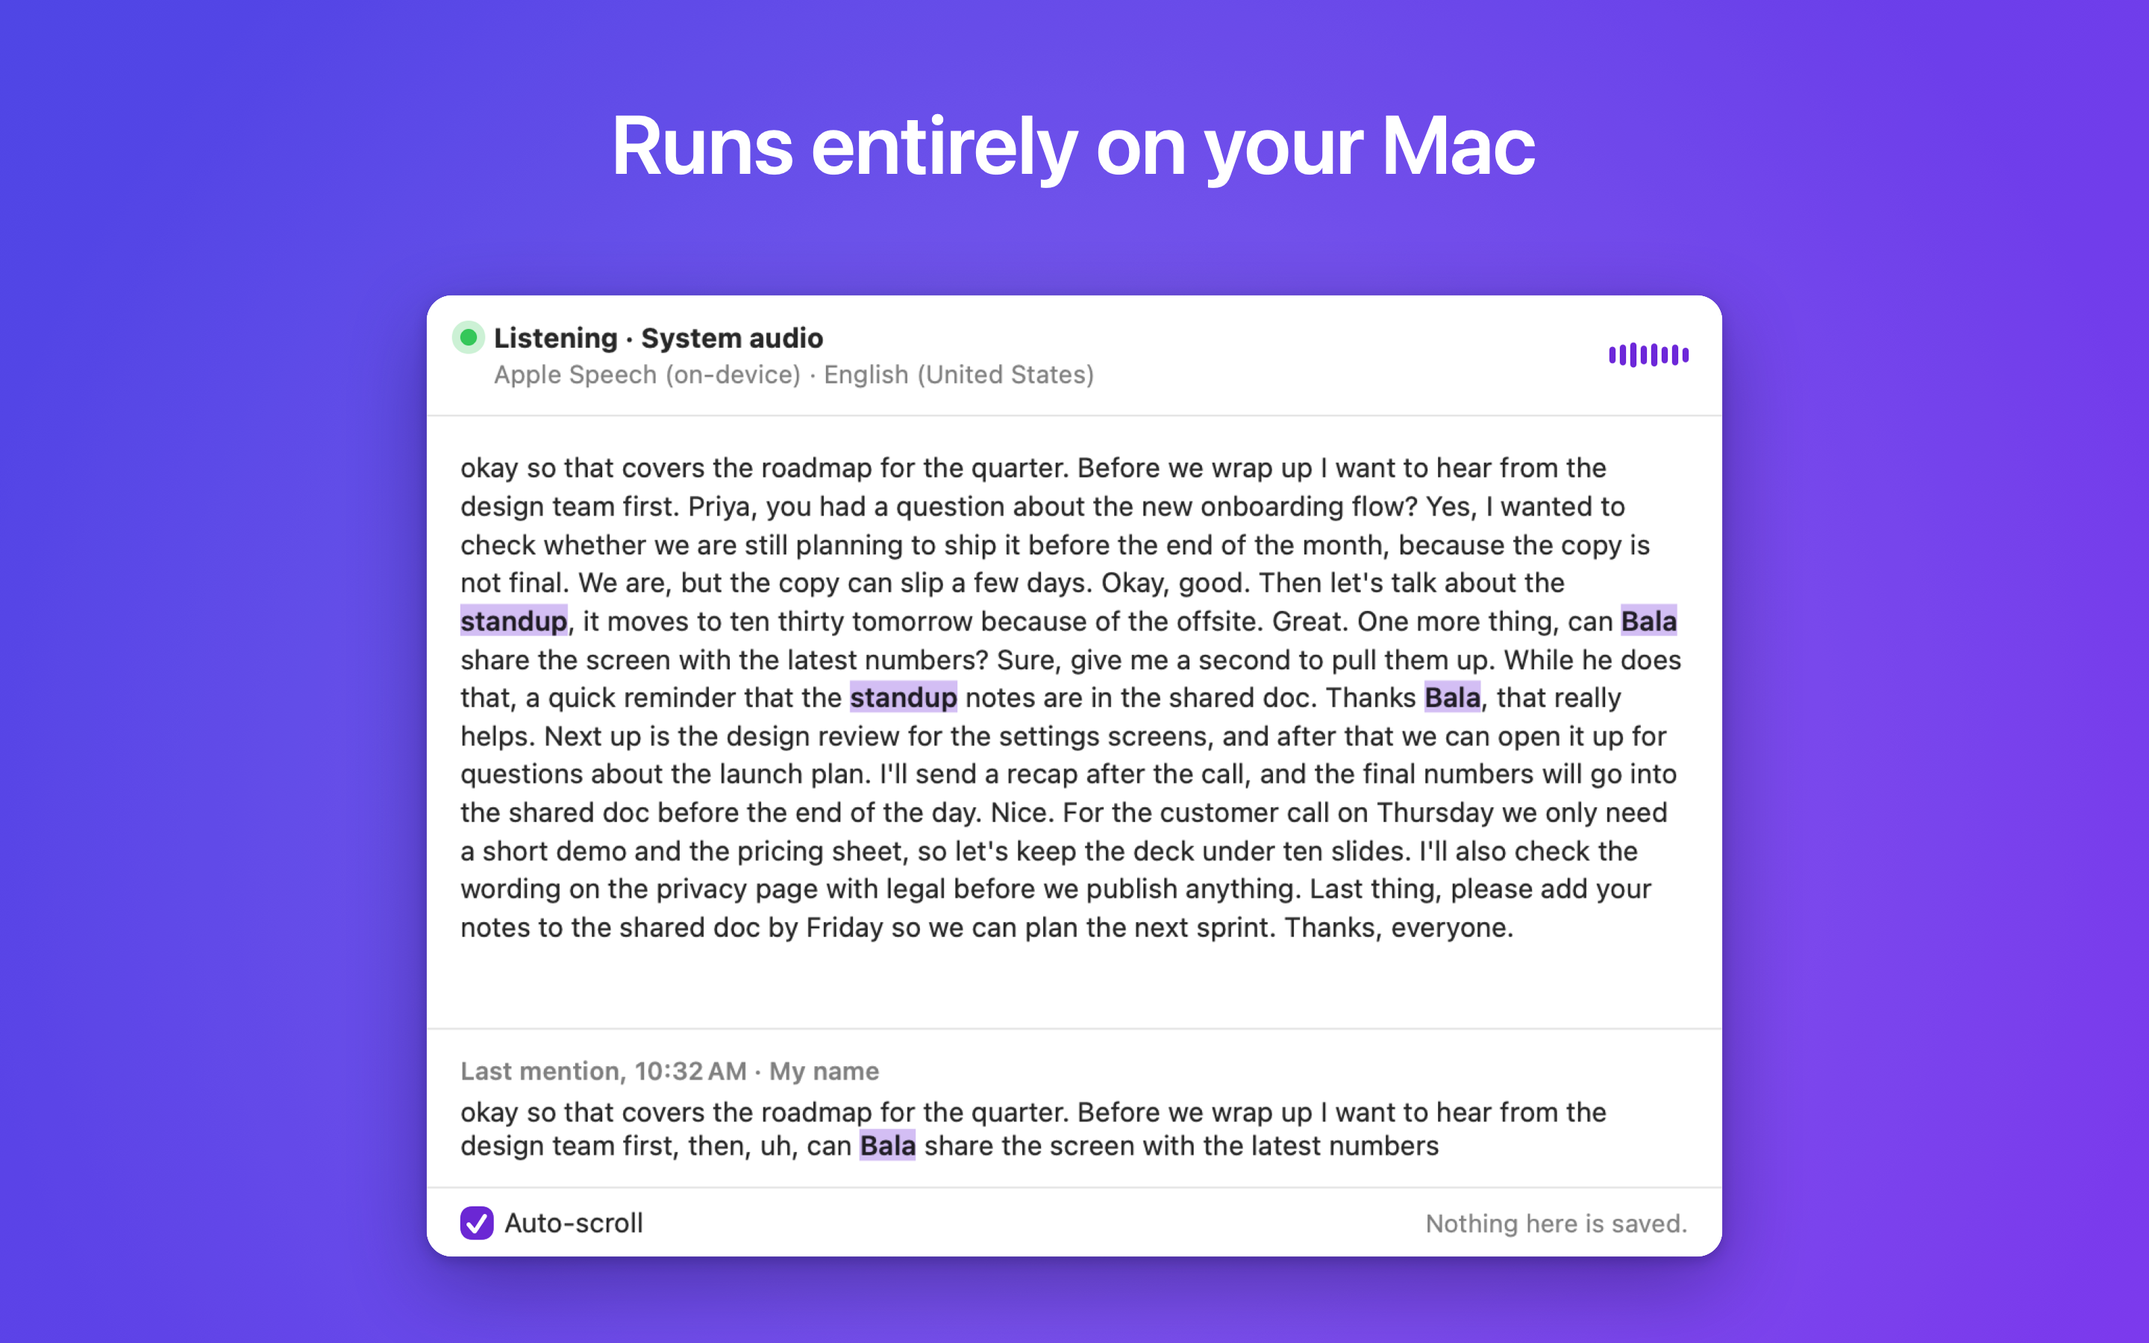
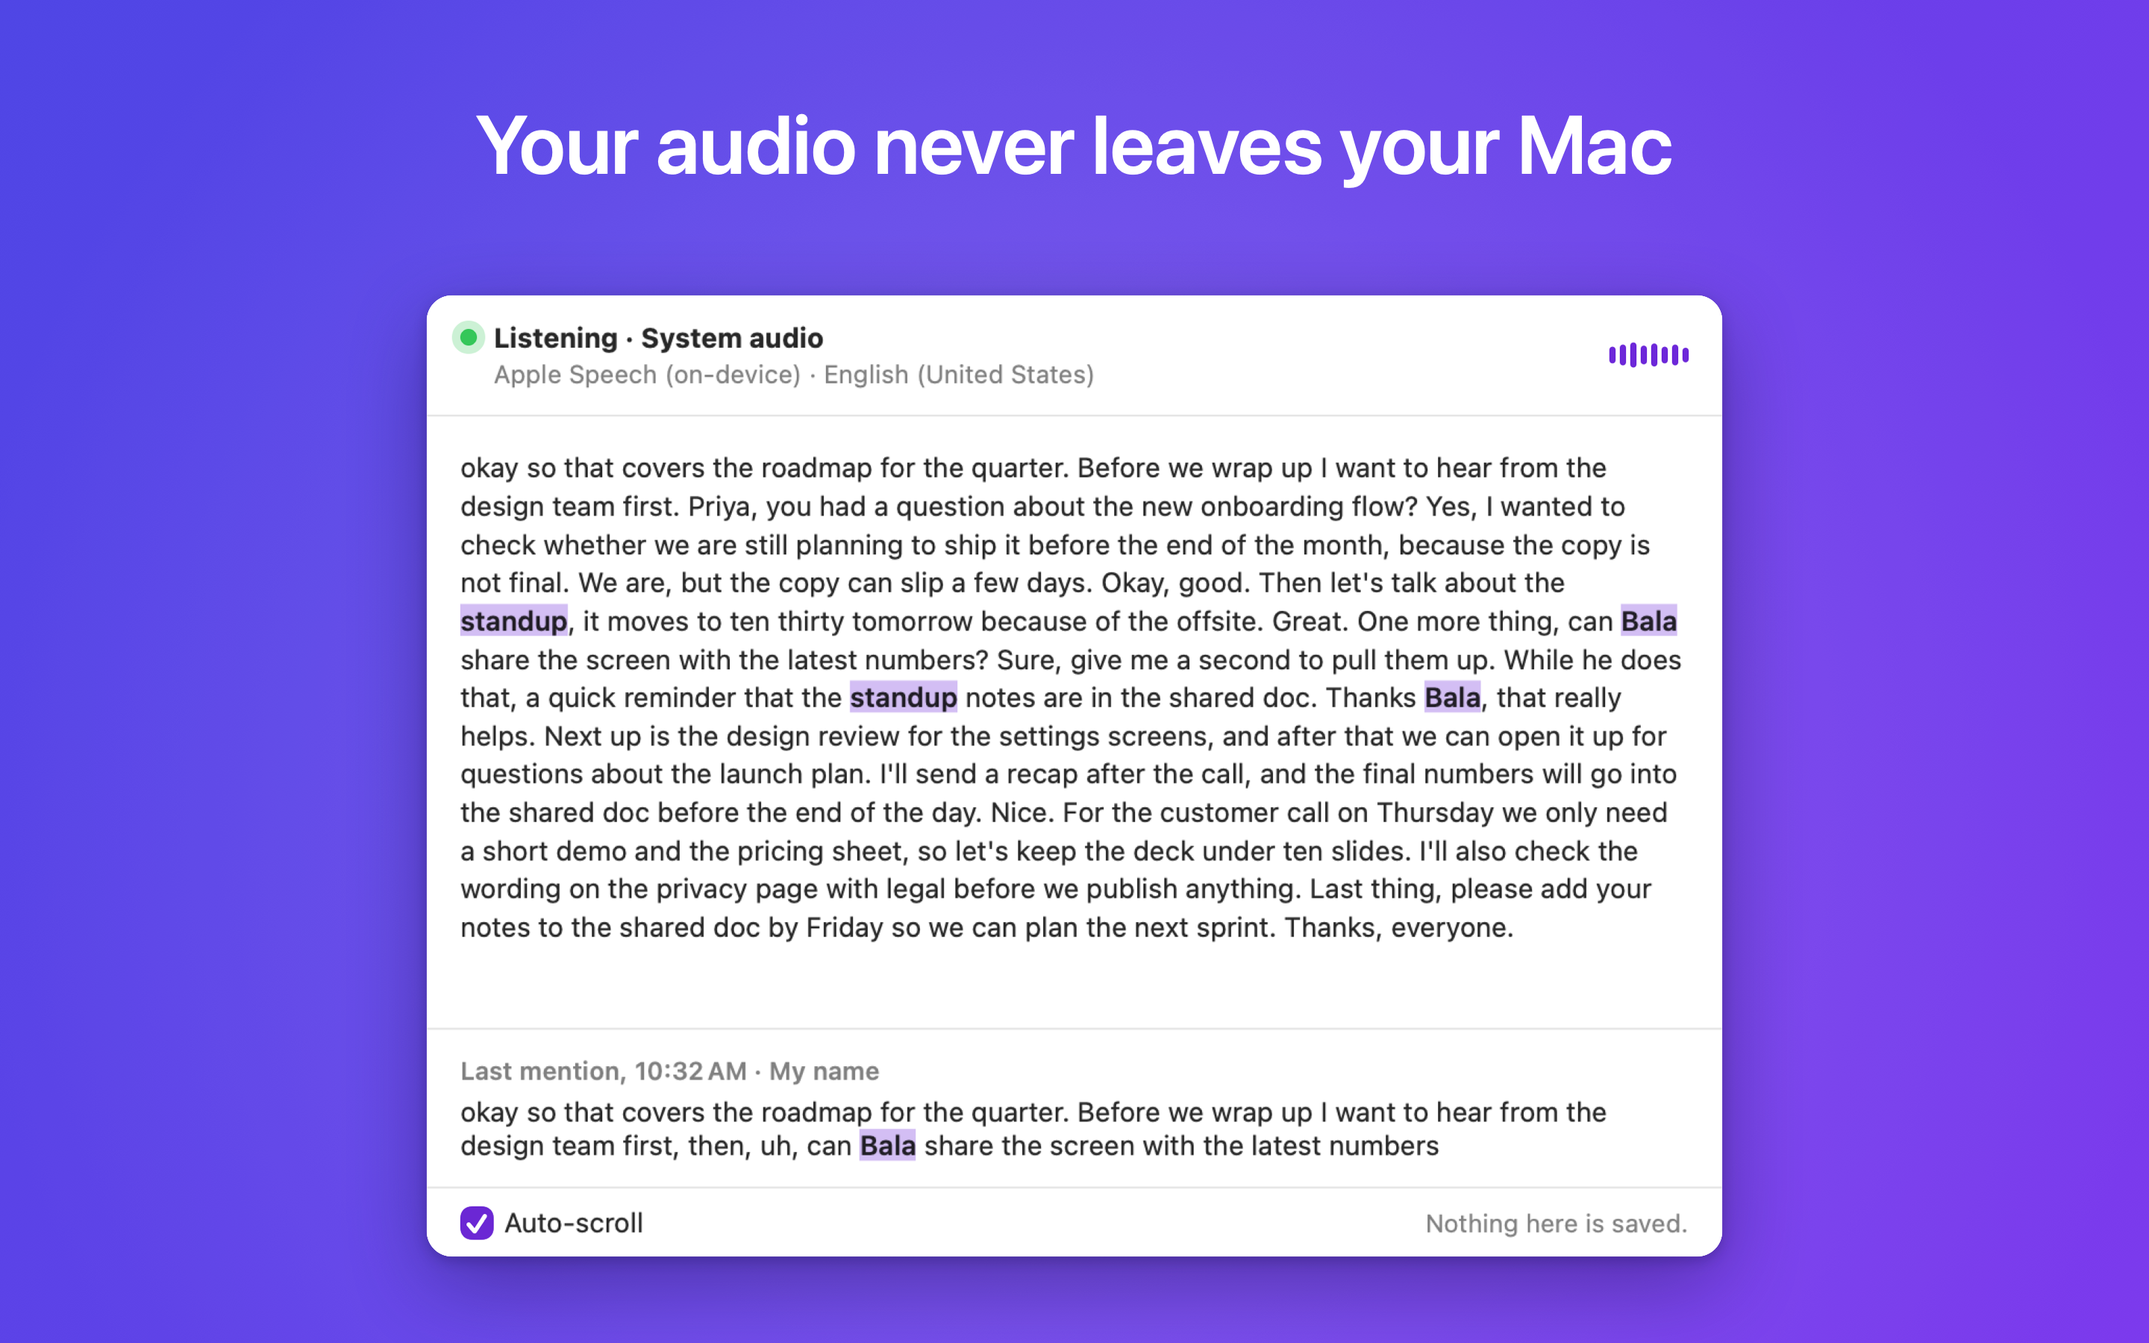
docs: accurate privacy wording
Audio never leaves the Mac; the words around a mention leave only through an
ntfy, Telegram call or webhook the user set up, and only to that service. The
local speech model is downloaded once from huggingface.co.

- About, Welcome, README, site, store description and review notes say so
- one caption under ntfy, Telegram call and webhook in Settings -> Alerts
- Acknowledgements add the Whisper model weights and Silero VAD notices
- screenshot 05 headline no longer claims the app runs entirely on the Mac

Changed region(s): [[0.2188, 0.0622, 0.7812, 0.1556]]

diff --git a/site/privacy.html b/site/privacy.html
@@ -34,13 +34,18 @@
 
         <section class="policy-block">
           <h3>Data Sent to External Services</h3>
-          <p>The only data that leaves your Mac is an alert that you explicitly set up yourself. If you enable any of the following optional alert channels, NameAlert sends the alert notification directly to that service:</p>
+          <p>Your audio never leaves your Mac. The only part of what was said that can leave is the words around a mention, and only inside an alert that you explicitly set up yourself. If you enable any of the following optional alert channels, NameAlert sends the alert directly to the service you chose:</p>
           <ul>
-            <li><strong>ntfy:</strong> Sends a notification payload to your chosen ntfy topic server.</li>
-            <li><strong>CallMeBot:</strong> Sends a request to trigger a Telegram voice call to your phone.</li>
-            <li><strong>Custom Webhook:</strong> Sends a signed JSON payload containing the match details and transcript context to the URL you specify (such as Slack, Home Assistant, Zapier, or n8n).</li>
+            <li><strong>ntfy:</strong> Sends a notification to your chosen ntfy topic on the ntfy server you set (ntfy.sh unless you change it). It holds the word that was heard and the words around it.</li>
+            <li><strong>CallMeBot:</strong> Sends a request to trigger a Telegram voice call to you. The message that is read out is yours to set; by default it holds the word that was heard and the words around it.</li>
+            <li><strong>Custom Webhook:</strong> Sends a signed JSON payload to the URL you specify (such as Slack, Home Assistant, Zapier, or n8n). It holds the match details, the words around the mention and, when available, up to 30 seconds of what was said before it.</li>
           </ul>
-          <p>CoolSolve LLP does not operate proxy servers, collect these payloads, or have access to your alert data.</p>
+          <p>CoolSolve LLP does not operate proxy servers, collect these payloads, or have access to your alert data. Each of those services has its own privacy policy.</p>
+        </section>
+
+        <section class="policy-block">
+          <h3>Speech Model Download</h3>
+          <p>When your Mac cannot use Apple's on-device speech recognition for your language, or when you choose the local model in Settings, NameAlert downloads a speech model once from huggingface.co: a file of 32 to 60 MB, plus a voice-detection file of under 1 MB. The request asks only for the files. It carries none of your audio, text or settings; like any download, it shows the host your IP address and which file you asked for. After that, transcription works without an internet connection. When Apple's own speech assets are needed, macOS downloads them, not NameAlert.</p>
         </section>
 
         <section class="policy-block">

diff --git a/NameAlertScreenshots/WindowRenderTests.swift b/NameAlertScreenshots/WindowRenderTests.swift
@@ -568,22 +568,26 @@ struct HistoryApiAboutLogicTests {
     func aboutWords() {
         #expect(AboutSettingsView.versionLine(version: "1.0.0", build: "123") == "Version 1.0.0 (123)")
         #expect(AboutSettingsView.privacySummary
-            == "Everything is transcribed on this Mac. Audio and transcripts never leave it.")
+            == "Audio never leaves this Mac. The words around a mention leave only if you set up ntfy, a Telegram call or a webhook — and only to the service you chose.")
         #expect(AboutLinks.support.absoluteString == "https://balakumardev.github.io/NameAlert/support.html")
         #expect(AboutLinks.privacy.absoluteString == "https://balakumardev.github.io/NameAlert/privacy.html")
         #expect(AboutLinks.support.scheme == "https")
     }
 
-    @Test("The acknowledgements hold both licenses, a heading each, and ship in the app")
+    @Test("The acknowledgements hold every notice, a heading each, and ship in the app")
     func acknowledgements() throws {
         let text = AboutLinks.acknowledgements()
         #expect(!text.contains("could not be loaded"), "Acknowledgements.txt is not in the app's resources")
         let headings = text.split(separator: "\n").filter {
-            $0.hasPrefix("whisper.cpp and ggml") || $0.hasPrefix("SCOWL word lists")
+            $0.hasPrefix("whisper.cpp and ggml") || $0.hasPrefix("Whisper model weights")
+                || $0.hasPrefix("Silero VAD") || $0.hasPrefix("SCOWL word lists")
         }
-        #expect(headings.count == 2)
+        #expect(headings.count == 4)
         #expect(text.contains("Permission is hereby granted, free of charge"))
         #expect(text.contains("Copyright (c) 2023-2026 The ggml authors"))
+        // The model weights and the voice detector the app downloads come with their notices.
+        #expect(text.contains("Copyright (c) 2022 OpenAI"))
+        #expect(text.contains("Copyright (c) 2020-present Silero Team"))
         #expect(text.contains("Kevin Atkinson"))
         // The SCOWL notice is the one the package ships, word for word.
         let scowl = try String(

diff --git a/NameAlert/Settings/ChannelSectionViews.swift b/NameAlert/Settings/ChannelSectionViews.swift
@@ -165,6 +165,17 @@ enum HeaderName {
     }
 }
 
+/// The line under each channel that sends words off this Mac: what goes, and to whom.
+enum LeavesTheMacNote {
+    static func text(sendingTo service: String) -> String {
+        "Sends the words around the mention to \(service)."
+    }
+
+    static let ntfy = text(sendingTo: "ntfy")
+    static let telegramCall = text(sendingTo: "CallMeBot")
+    static let webhook = text(sendingTo: "your webhook")
+}
+
 /// The sound names a picker offers: every system sound, and the one in use if it is not among them.
 enum SoundChoices {
     static func names(including current: String) -> [String] {
@@ -341,6 +352,8 @@ struct NtfySection: View {
             ChannelTestRow(kind: .ntfy)
         } header: {
             SettingsSectionTitle(ChannelKind.ntfy.displayName)
+        } footer: {
+            SettingsCaption(LeavesTheMacNote.ntfy)
         }
     }
 
@@ -398,6 +411,8 @@ struct TelegramSection: View {
             ChannelTestRow(kind: .telegramCall)
         } header: {
             SettingsSectionTitle(ChannelKind.telegramCall.displayName)
+        } footer: {
+            SettingsCaption(LeavesTheMacNote.telegramCall)
         }
     }
 
@@ -443,6 +458,8 @@ struct WebhookSection: View {
             ChannelTestRow(kind: .webhook)
         } header: {
             SettingsSectionTitle(ChannelKind.webhook.displayName)
+        } footer: {
+            SettingsCaption(LeavesTheMacNote.webhook)
         }
     }
 

diff --git a/NameAlert/Onboarding/WelcomeStep.swift b/NameAlert/Onboarding/WelcomeStep.swift
@@ -8,9 +8,13 @@ struct WelcomeStep: View {
     /// The three points: a symbol and the words.
     static let points: [(symbol: String, text: String)] = [
         ("speaker.wave.2", "Works with calls, videos and the room around you"),
-        ("laptopcomputer", "Runs entirely on this Mac"),
+        ("laptopcomputer", "Audio never leaves this Mac"),
         ("bell", "You choose how to be alerted"),
     ]
+
+    /// Under the points: the one thing that can leave the Mac, and where it goes.
+    static let privacyNote =
+        "The words around a mention leave only if you set up ntfy, a Telegram call or a webhook — and only to the service you chose."
 
     var body: some View {
         VStack(spacing: 16) {
@@ -40,6 +44,13 @@ struct WelcomeStep: View {
                 }
             }
             .padding(.top, 4)
+
+            Text(verbatim: Self.privacyNote)
+                .font(.callout)
+                .foregroundStyle(.secondary)
+                .multilineTextAlignment(.center)
+                .fixedSize(horizontal: false, vertical: true)
+                .frame(maxWidth: 440)
         }
         .padding(.horizontal, 40)
         .frame(maxWidth: .infinity, maxHeight: .infinity)

diff --git a/NameAlert/Settings/AboutSettingsView.swift b/NameAlert/Settings/AboutSettingsView.swift
@@ -17,8 +17,9 @@ struct AboutSettingsView: View {
         _isShowingAcknowledgements = State(initialValue: showsAcknowledgements)
     }
 
-    /// What the one-line summary of privacy says.
-    static let privacySummary = "Everything is transcribed on this Mac. Audio and transcripts never leave it."
+    /// What the summary of privacy says: the audio stays, and what can leave is named, with where it goes.
+    static let privacySummary =
+        "Audio never leaves this Mac. The words around a mention leave only if you set up ntfy, a Telegram call or a webhook — and only to the service you chose."
 
     var body: some View {
         Form {
@@ -56,7 +57,7 @@ struct AboutSettingsView: View {
                     .accessibilityLabel("Acknowledgements text")
                 }
             } footer: {
-                SettingsCaption("whisper.cpp and the SCOWL word lists.")
+                SettingsCaption("whisper.cpp, the Whisper model weights, Silero VAD and the SCOWL word lists.")
             }
         }
         .formStyle(.grouped)

diff --git a/NameAlertScreenshots/AppStoreScreenshotTests.swift b/NameAlertScreenshots/AppStoreScreenshotTests.swift
@@ -44,7 +44,7 @@ struct ScreenshotSpec: Sendable {
     static let rules = ScreenshotSpec(name: "02-rules", headline: "Choose what to listen for and how to be alerted")
     static let alerts = ScreenshotSpec(name: "03-alerts", headline: "Sound, notification, alarm, push, call or webhook")
     static let onboarding = ScreenshotSpec(name: "04-onboarding", headline: "Set up in a minute")
-    static let live = ScreenshotSpec(name: "05-live", headline: "Runs entirely on your Mac")
+    static let live = ScreenshotSpec(name: "05-live", headline: "Your audio never leaves your Mac")
 
     static let all: [ScreenshotSpec] = [menuBar, rules, alerts, onboarding, live]
 }
@@ -722,7 +722,7 @@ struct AppStoreScreenshotLogicTests {
                 "Choose what to listen for and how to be alerted",
                 "Sound, notification, alarm, push, call or webhook",
                 "Set up in a minute",
-                "Runs entirely on your Mac",
+                "Your audio never leaves your Mac",
             ])
     }
 

diff --git a/NameAlertScreenshots/OnboardingRenderTests.swift b/NameAlertScreenshots/OnboardingRenderTests.swift
@@ -227,9 +227,11 @@ struct OnboardingLogicTests {
     func welcomeWords() {
         #expect(WelcomeStep.headline == "Hear your name, even when you're not listening.")
         #expect(WelcomeStep.points.map { $0.text } == [
-            "Works with calls, videos and the room around you", "Runs entirely on this Mac",
+            "Works with calls, videos and the room around you", "Audio never leaves this Mac",
             "You choose how to be alerted",
         ])
+        #expect(WelcomeStep.privacyNote
+            == "The words around a mention leave only if you set up ntfy, a Telegram call or a webhook — and only to the service you chose.")
         for point in WelcomeStep.points {
             #expect(NSImage(systemSymbolName: point.symbol, accessibilityDescription: nil) != nil, "\(point.symbol)")
         }

diff --git a/NameAlertScreenshots/SettingsRenderTests.swift b/NameAlertScreenshots/SettingsRenderTests.swift
@@ -607,6 +607,13 @@ struct AlertsAndSpeechLogicTests {
         #expect(ChannelTestRow.lastFailureLine(nil, phase: .idle, now: now) == nil)
     }
 
+    @Test("Each channel that sends words off the Mac says so, and to whom")
+    func leavesTheMacNotes() {
+        #expect(LeavesTheMacNote.ntfy == "Sends the words around the mention to ntfy.")
+        #expect(LeavesTheMacNote.telegramCall == "Sends the words around the mention to CallMeBot.")
+        #expect(LeavesTheMacNote.webhook == "Sends the words around the mention to your webhook.")
+    }
+
     @Test("A sound menu offers every system sound, and one that is in use but not among them")
     func soundChoices() {
         #expect(SoundChoices.names(including: "Glass") == SystemSounds.names)

diff --git a/site/index.html b/site/index.html
@@ -42,7 +42,7 @@
           </div>
           <div class="feature-card">
             <h3>Private by design</h3>
-            <p>Speech transcription runs entirely on your Mac. Audio and transcripts never leave your computer. There are no accounts, no ads, and no analytics.</p>
+            <p>Speech transcription runs on your Mac, and your audio never leaves it. The words around a mention leave only if you set up ntfy, a Telegram call or a webhook &mdash; and only to the service you chose. There are no accounts, no ads, and no analytics.</p>
           </div>
           <div class="feature-card">
             <h3>Alerts your way</h3>

diff --git a/appstore/REVIEW_NOTES.md b/appstore/REVIEW_NOTES.md
@@ -5,7 +5,7 @@ NameAlert is a macOS menu-bar utility that alerts users when their name or chose
 - Menu-bar app: NameAlert lives in the macOS menu bar (ear icon). There is no Dock icon and no main window after completing initial setup.
 - Initial setup: On first launch, a setup window appears to configure a name and optional permissions.
 - No account or login: NameAlert requires no account, sign-in, subscription, or in-app purchase.
-- On-device processing: All speech transcription and keyword matching run entirely locally on the Mac. Audio and transcripts never leave the Mac.
+- On-device processing: All speech transcription and keyword matching run on the Mac. Audio never leaves the Mac. The words around a mention leave only if the user sets up an ntfy, Telegram call or webhook alert, and only to the service they chose.
 
 ## Permissions Requested
 - Screen & System Audio Recording: Used only to receive system audio from calls and videos via Apple's ScreenCaptureKit framework. NameAlert never records, captures, or saves screen content. The video stream is configured to a 2x2 pixel buffer that is immediately discarded.
@@ -27,4 +27,4 @@ NameAlert is a macOS menu-bar utility that alerts users when their name or chose
 
 ## Additional Notes
 - No in-app purchases or paid features exist in this app.
-- No external network requests are made unless the user explicitly configures a third-party webhook, ntfy topic, or CallMeBot notification.
+- Network requests: the app makes two kinds. (1) When a local speech model is needed, it is downloaded once from huggingface.co (a file of 32 to 60 MB; the request only asks for the file). It is needed when Apple's on-device speech is not available for the user's language, or when the user chooses it in Settings → Speech. (2) An alert goes to a webhook, ntfy topic or CallMeBot only if the user sets it up in Settings → Alerts. There are no other network requests: no accounts, no analytics, no ads.

diff --git a/README.md b/README.md
@@ -2,7 +2,7 @@
 
 NameAlert is a macOS menu-bar app that alerts you the moment someone says your name or keyword during calls, meetings, or videos.
 
-Speech transcription runs entirely on your Mac, so audio and transcripts stay private. NameAlert is free, requires no account, and includes no analytics or advertisements.
+Speech transcription runs on your Mac, and your audio never leaves it. NameAlert is free, requires no account, and includes no analytics or advertisements.
 
 ## Features
 
@@ -41,10 +41,11 @@ Speech transcription runs entirely on your Mac, so audio and transcripts stay pr
 
 ## Privacy
 
-- Audio and transcripts never leave your Mac.
-- Transcription uses on-device speech recognition, or a small downloadable local model on Macs without it.
+- Audio never leaves your Mac.
+- The words around a mention leave only if you set up ntfy, a Telegram call (CallMeBot) or a webhook, and only to the service you chose.
+- Transcription uses on-device speech recognition, or a small local model on Macs without it. The model is downloaded once from huggingface.co.
 - No user accounts, no tracking, and no analytics.
-- External connections occur only if you configure an optional alert service (ntfy, CallMeBot, or custom webhook).
+- The only network connections are that model download and the alert services you set up.
 - Secrets and tokens are saved in the macOS Keychain.
 
 ## Building from Source
@@ -93,6 +94,8 @@ swift test --package-path Packages/NameAlertKit
 ## Acknowledgements
 
 - [whisper.cpp](https://github.com/ggerganov/whisper.cpp) (MIT License)
+- [Whisper](https://github.com/openai/whisper) model weights, OpenAI (MIT License)
+- [Silero VAD](https://github.com/snakers4/silero-vad), Silero Team (MIT License)
 - SCOWL word lists
 
 ## License
